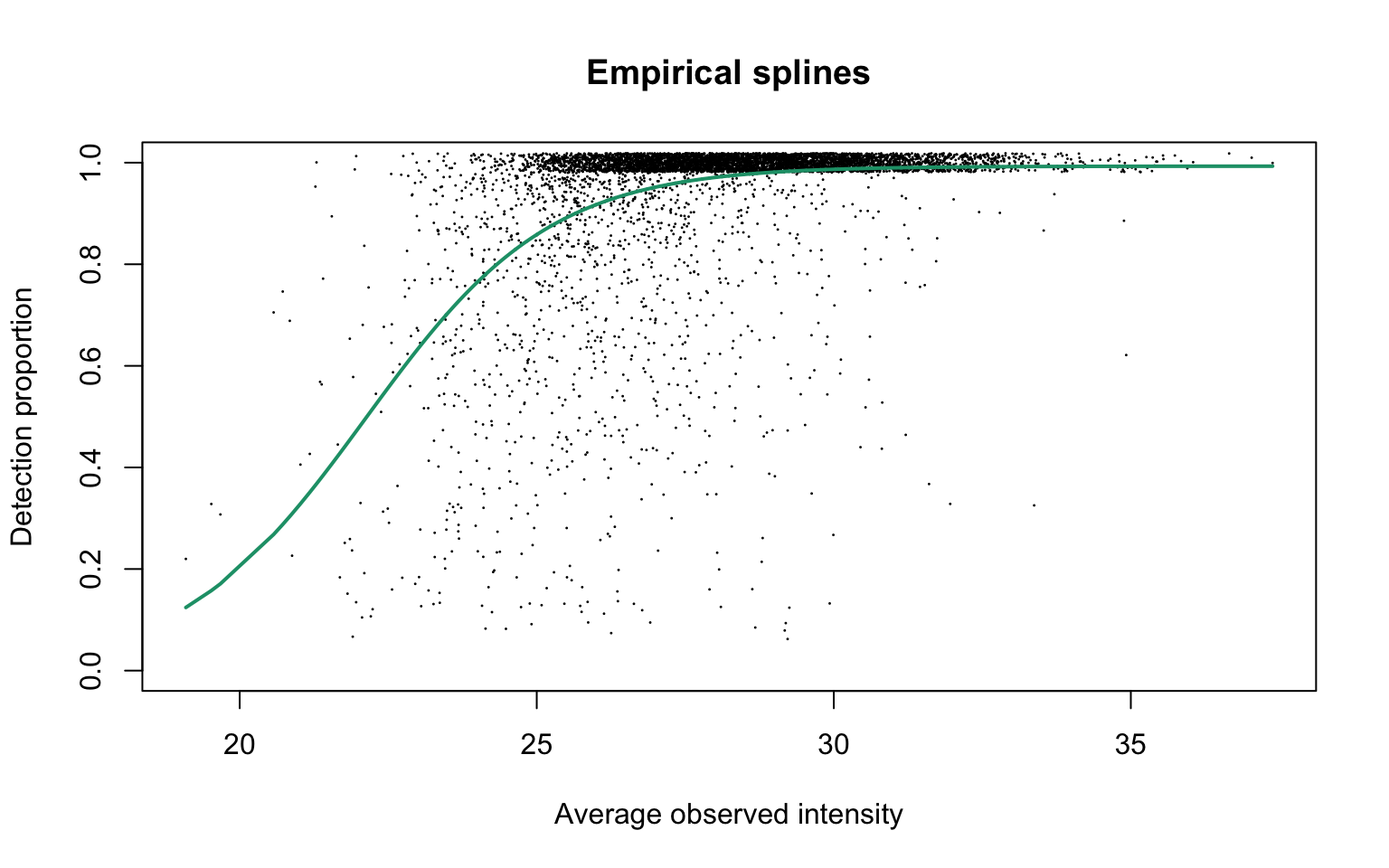
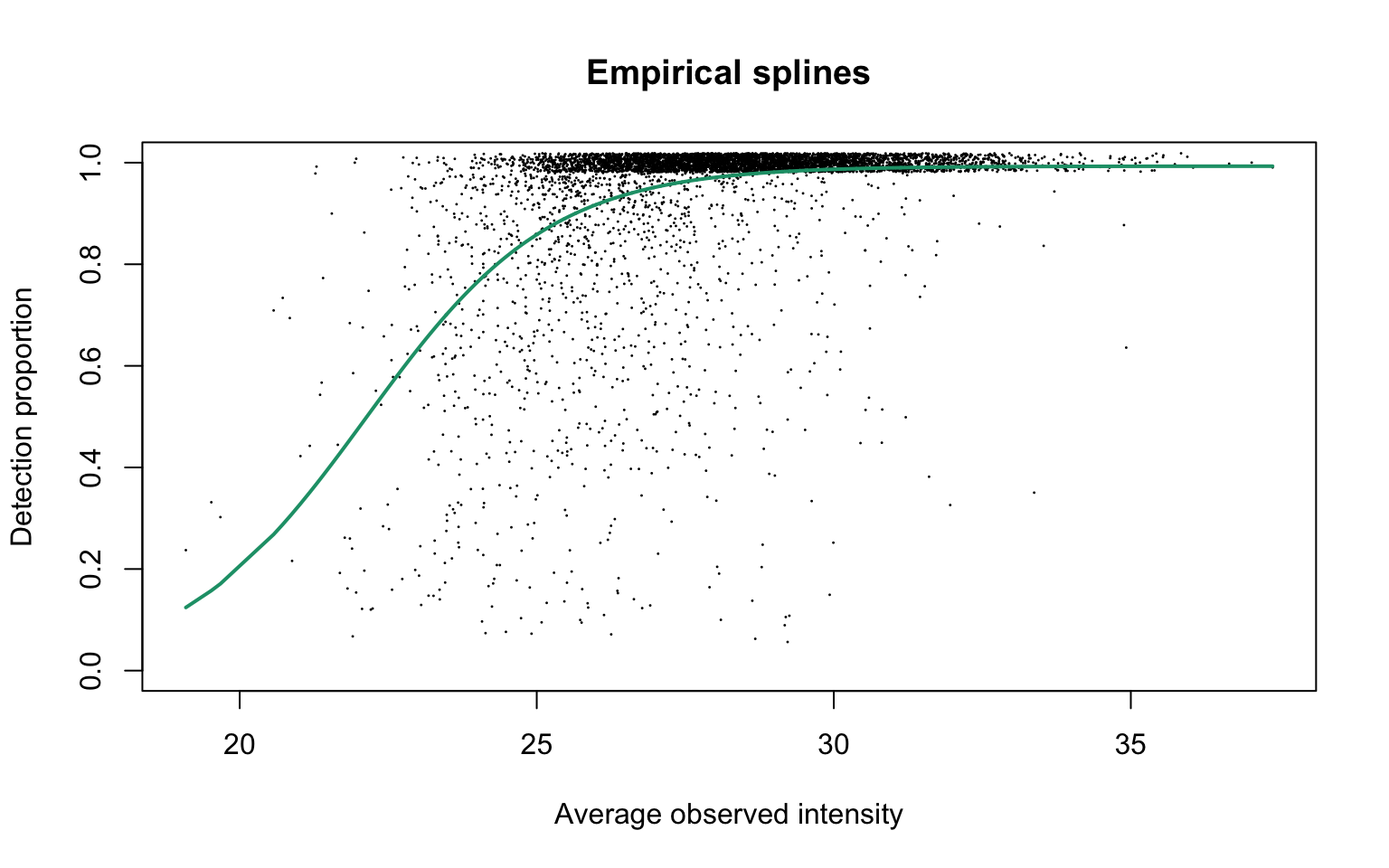
Update figure2

diff --git a/docs/articles/protDP.html b/docs/articles/protDP.html
@@ -130,10 +130,10 @@ values less than 1 were already filtered out.</p>
 <p>The dataset has a relatively small amount of missing values with an
 overall proportion of missing data of</p>
 <div class="sourceCode" id="cb3"><pre class="sourceCode r"><code class="sourceCode r"><span id="cb3-1"><a href="#cb3-1" aria-hidden="true" tabindex="-1"></a><span class="fu">sum</span>(<span class="fu">is.na</span>(dat))<span class="sc">/</span><span class="fu">length</span>(dat)</span>
-<span id="cb3-2"><a href="#cb3-2" aria-hidden="true" tabindex="-1"></a>[<span class="dv">1</span>] <span class="fl">0.0863</span></span></code></pre></div>
+<span id="cb3-2"><a href="#cb3-2" aria-hidden="true" tabindex="-1"></a>[<span class="dv">1</span>] <span class="fl">0.08632</span></span></code></pre></div>
 </div>
 <div class="section level3">
-<h3 id="emp-datasetA">Empirical logistic splines for detected proportions<a class="anchor" aria-label="anchor" href="#emp-datasetA"></a>
+<h3 id="empirical-logistic-splines-for-detected-proportions">Empirical logistic splines for detected proportions<a class="anchor" aria-label="anchor" href="#empirical-logistic-splines-for-detected-proportions"></a>
 </h3>
 <p>Natural cubic splines generated on average observed intensities are
 fitted on detection proportions with 1, 3 and 5 degrees of freedom:</p>
@@ -166,51 +166,58 @@ fitted on detection proportions with 1, 3 and 5 degrees of freedom:</p>
 <h3 id="empirical-logistic-splines-assuming-the-binomial-distribution">Empirical logistic splines assuming the binomial distribution<a class="anchor" aria-label="anchor" href="#empirical-logistic-splines-assuming-the-binomial-distribution"></a>
 </h3>
 <p>We have assumed the number of detected samples in each precursor to
-follow the zero-truncated binomial distribution in Section
-@ref(emp-datasetA). As a comparison, logistic regression splines are
-next fitted assuming the binomial distribution.</p>
+follow the zero-truncated binomial distribution in the previous section.
+As a comparison, logistic regression splines are next fitted assuming
+the binomial distribution.</p>
 <div class="sourceCode" id="cb6"><pre class="downlit sourceCode r">
-<code class="sourceCode R"><span class="fu"><a href="https://rdrr.io/r/graphics/par.html" class="external-link">par</a></span><span class="op">(</span>mfrow <span class="op">=</span> <span class="fu"><a href="https://rdrr.io/r/base/c.html" class="external-link">c</a></span><span class="op">(</span><span class="fl">2</span>, <span class="fl">1</span><span class="op">)</span><span class="op">)</span>
+<code class="sourceCode R"><span class="fu"><a href="https://rdrr.io/r/graphics/par.html" class="external-link">par</a></span><span class="op">(</span>mfrow <span class="op">=</span> <span class="fu"><a href="https://rdrr.io/r/base/c.html" class="external-link">c</a></span><span class="op">(</span><span class="fl">1</span>, <span class="fl">2</span><span class="op">)</span><span class="op">)</span>
+<span class="co"># Plot for precursors of low intensity</span>
+<span class="va">low</span> <span class="op">&lt;-</span> <span class="va">nuis</span><span class="op">$</span><span class="va">mu_obs</span> <span class="op">&lt;</span> <span class="fl">4</span>
+<span class="va">nuis_low</span> <span class="op">&lt;-</span> <span class="va">nuis</span>
+<span class="va">nuis_low</span><span class="op">$</span><span class="va">mu_obs</span> <span class="op">&lt;-</span> <span class="va">nuis_low</span><span class="op">$</span><span class="va">mu_obs</span><span class="op">[</span><span class="va">low</span><span class="op">]</span>
+<span class="va">nuis_low</span><span class="op">$</span><span class="va">dp</span> <span class="op">&lt;-</span> <span class="va">nuis_low</span><span class="op">$</span><span class="va">dp</span><span class="op">[</span><span class="va">low</span><span class="op">]</span>
 <span class="kw">for</span> <span class="op">(</span><span class="va">df</span> <span class="kw">in</span> <span class="va">dfList</span><span class="op">)</span> <span class="op">{</span>
     <span class="va">params0</span> <span class="op">&lt;-</span> <span class="va">allFits</span><span class="op">[[</span><span class="op">(</span><span class="va">df</span> <span class="op">+</span> <span class="fl">1</span><span class="op">)</span><span class="op">/</span><span class="fl">2</span><span class="op">]</span><span class="op">]</span><span class="op">$</span><span class="va">binomEstimate</span>
     <span class="va">fit</span> <span class="op">&lt;-</span> <span class="va">allFits</span><span class="op">[[</span><span class="op">(</span><span class="va">df</span> <span class="op">+</span> <span class="fl">1</span><span class="op">)</span><span class="op">/</span><span class="fl">2</span><span class="op">]</span><span class="op">]</span>
     <span class="kw">if</span> <span class="op">(</span><span class="va">df</span> <span class="op">==</span> <span class="fl">1</span><span class="op">)</span>
-        <span class="fu"><a href="../reference/plotEmpSplines.html">plotEmpSplines</a></span><span class="op">(</span><span class="va">nuis</span>, X <span class="op">=</span> <span class="va">params0</span><span class="op">$</span><span class="va">X</span>, <span class="va">params0</span><span class="op">$</span><span class="va">betas_start</span>,
-            ylim <span class="op">=</span> <span class="fu"><a href="https://rdrr.io/r/base/c.html" class="external-link">c</a></span><span class="op">(</span><span class="op">-</span><span class="fl">2</span>, <span class="fl">10</span><span class="op">)</span>, logit <span class="op">=</span> <span class="cn">TRUE</span>, lineCol <span class="op">=</span> <span class="va">lineColours</span><span class="op">[</span><span class="op">(</span><span class="va">df</span> <span class="op">+</span>
-                <span class="fl">1</span><span class="op">)</span><span class="op">/</span><span class="fl">2</span><span class="op">]</span>, lty <span class="op">=</span> <span class="st">"dotted"</span><span class="op">)</span>
-    <span class="fu"><a href="../reference/plotEmpSplines.html">plotEmpSplines</a></span><span class="op">(</span><span class="va">nuis</span>, X <span class="op">=</span> <span class="va">params0</span><span class="op">$</span><span class="va">X</span>, <span class="va">fit</span><span class="op">$</span><span class="va">params</span>, ylim <span class="op">=</span> <span class="fu"><a href="https://rdrr.io/r/base/c.html" class="external-link">c</a></span><span class="op">(</span><span class="op">-</span><span class="fl">2</span>,
-        <span class="fl">10</span><span class="op">)</span>, logit <span class="op">=</span> <span class="cn">TRUE</span>, lineCol <span class="op">=</span> <span class="va">lineColours</span><span class="op">[</span><span class="op">(</span><span class="va">df</span> <span class="op">+</span> <span class="fl">1</span><span class="op">)</span><span class="op">/</span><span class="fl">2</span><span class="op">]</span>,
-        newPlot <span class="op">=</span> <span class="cn">FALSE</span><span class="op">)</span>
+        <span class="fu"><a href="../reference/plotEmpSplines.html">plotEmpSplines</a></span><span class="op">(</span><span class="va">nuis_low</span>, X <span class="op">=</span> <span class="va">params0</span><span class="op">$</span><span class="va">X</span><span class="op">[</span><span class="va">low</span>, <span class="op">]</span>, <span class="va">params0</span><span class="op">$</span><span class="va">betas_start</span>,
+            xlim <span class="op">=</span> <span class="fu"><a href="https://rdrr.io/r/base/c.html" class="external-link">c</a></span><span class="op">(</span><span class="fl">0</span>, <span class="fl">4</span><span class="op">)</span>, ylim <span class="op">=</span> <span class="fu"><a href="https://rdrr.io/r/base/c.html" class="external-link">c</a></span><span class="op">(</span><span class="op">-</span><span class="fl">2</span>, <span class="fl">2</span><span class="op">)</span>, logit <span class="op">=</span> <span class="cn">TRUE</span>, lineCol <span class="op">=</span> <span class="va">lineColours</span><span class="op">[</span><span class="op">(</span><span class="va">df</span> <span class="op">+</span>
+                <span class="fl">1</span><span class="op">)</span><span class="op">/</span><span class="fl">2</span><span class="op">]</span>, lty <span class="op">=</span> <span class="st">"dashed"</span><span class="op">)</span>
+    <span class="fu"><a href="../reference/plotEmpSplines.html">plotEmpSplines</a></span><span class="op">(</span><span class="va">nuis_low</span>, X <span class="op">=</span> <span class="va">params0</span><span class="op">$</span><span class="va">X</span><span class="op">[</span><span class="va">low</span>, <span class="op">]</span>, <span class="va">fit</span><span class="op">$</span><span class="va">params</span>,
+        ylim <span class="op">=</span> <span class="fu"><a href="https://rdrr.io/r/base/c.html" class="external-link">c</a></span><span class="op">(</span><span class="op">-</span><span class="fl">2</span>, <span class="fl">2</span><span class="op">)</span>, logit <span class="op">=</span> <span class="cn">TRUE</span>, lineCol <span class="op">=</span> <span class="va">lineColours</span><span class="op">[</span><span class="op">(</span><span class="va">df</span> <span class="op">+</span>
+            <span class="fl">1</span><span class="op">)</span><span class="op">/</span><span class="fl">2</span><span class="op">]</span>, newPlot <span class="op">=</span> <span class="cn">FALSE</span><span class="op">)</span>
     <span class="kw">if</span> <span class="op">(</span><span class="va">df</span> <span class="op">&gt;</span> <span class="fl">1</span><span class="op">)</span>
-        <span class="fu"><a href="../reference/plotEmpSplines.html">plotEmpSplines</a></span><span class="op">(</span><span class="va">nuis</span>, X <span class="op">=</span> <span class="va">params0</span><span class="op">$</span><span class="va">X</span>, <span class="va">params0</span><span class="op">$</span><span class="va">betas_start</span>,
-            ylim <span class="op">=</span> <span class="fu"><a href="https://rdrr.io/r/base/c.html" class="external-link">c</a></span><span class="op">(</span><span class="op">-</span><span class="fl">2</span>, <span class="fl">10</span><span class="op">)</span>, logit <span class="op">=</span> <span class="cn">TRUE</span>, lineCol <span class="op">=</span> <span class="va">lineColours</span><span class="op">[</span><span class="op">(</span><span class="va">df</span> <span class="op">+</span>
-                <span class="fl">1</span><span class="op">)</span><span class="op">/</span><span class="fl">2</span><span class="op">]</span>, lty <span class="op">=</span> <span class="st">"dotted"</span>, newPlot <span class="op">=</span> <span class="cn">FALSE</span><span class="op">)</span>
-    <span class="fu"><a href="../reference/plotEmpSplines.html">plotEmpSplines</a></span><span class="op">(</span><span class="va">nuis</span>, X <span class="op">=</span> <span class="va">params0</span><span class="op">$</span><span class="va">X</span>, <span class="va">fit</span><span class="op">$</span><span class="va">params</span>, logit <span class="op">=</span> <span class="cn">TRUE</span>,
-        lineCol <span class="op">=</span> <span class="va">lineColours</span><span class="op">[</span><span class="op">(</span><span class="va">df</span> <span class="op">+</span> <span class="fl">1</span><span class="op">)</span><span class="op">/</span><span class="fl">2</span><span class="op">]</span>, ylim <span class="op">=</span> <span class="fu"><a href="https://rdrr.io/r/base/c.html" class="external-link">c</a></span><span class="op">(</span><span class="op">-</span><span class="fl">2</span>, <span class="fl">10</span><span class="op">)</span>,
-        newPlot <span class="op">=</span> <span class="cn">FALSE</span><span class="op">)</span>
+        <span class="fu"><a href="../reference/plotEmpSplines.html">plotEmpSplines</a></span><span class="op">(</span><span class="va">nuis_low</span>, X <span class="op">=</span> <span class="va">params0</span><span class="op">$</span><span class="va">X</span><span class="op">[</span><span class="va">low</span>, <span class="op">]</span>, <span class="va">params0</span><span class="op">$</span><span class="va">betas_start</span>,
+            ylim <span class="op">=</span> <span class="fu"><a href="https://rdrr.io/r/base/c.html" class="external-link">c</a></span><span class="op">(</span><span class="op">-</span><span class="fl">2</span>, <span class="fl">2</span><span class="op">)</span>, logit <span class="op">=</span> <span class="cn">TRUE</span>, lineCol <span class="op">=</span> <span class="va">lineColours</span><span class="op">[</span><span class="op">(</span><span class="va">df</span> <span class="op">+</span>
+                <span class="fl">1</span><span class="op">)</span><span class="op">/</span><span class="fl">2</span><span class="op">]</span>, lty <span class="op">=</span> <span class="st">"dashed"</span>, newPlot <span class="op">=</span> <span class="cn">FALSE</span><span class="op">)</span>
+    <span class="fu"><a href="../reference/plotEmpSplines.html">plotEmpSplines</a></span><span class="op">(</span><span class="va">nuis_low</span>, X <span class="op">=</span> <span class="va">params0</span><span class="op">$</span><span class="va">X</span><span class="op">[</span><span class="va">low</span>, <span class="op">]</span>, <span class="va">fit</span><span class="op">$</span><span class="va">params</span>,
+        logit <span class="op">=</span> <span class="cn">TRUE</span>, lineCol <span class="op">=</span> <span class="va">lineColours</span><span class="op">[</span><span class="op">(</span><span class="va">df</span> <span class="op">+</span> <span class="fl">1</span><span class="op">)</span><span class="op">/</span><span class="fl">2</span><span class="op">]</span>, ylim <span class="op">=</span> <span class="fu"><a href="https://rdrr.io/r/base/c.html" class="external-link">c</a></span><span class="op">(</span><span class="op">-</span><span class="fl">2</span>,
+            <span class="fl">2</span><span class="op">)</span>, newPlot <span class="op">=</span> <span class="cn">FALSE</span><span class="op">)</span>
 <span class="op">}</span>
 <span class="fu"><a href="https://rdrr.io/r/graphics/legend.html" class="external-link">legend</a></span><span class="op">(</span><span class="st">"topleft"</span>, legend <span class="op">=</span> <span class="fu"><a href="https://rdrr.io/r/base/c.html" class="external-link">c</a></span><span class="op">(</span><span class="fu"><a href="https://rdrr.io/r/base/paste.html" class="external-link">paste</a></span><span class="op">(</span><span class="st">"df = "</span>, <span class="va">dfList</span><span class="op">)</span>, <span class="st">"Binom"</span>,
     <span class="st">"ZB"</span><span class="op">)</span>, col <span class="op">=</span> <span class="fu"><a href="https://rdrr.io/r/base/c.html" class="external-link">c</a></span><span class="op">(</span><span class="va">lineColours</span>, <span class="st">"black"</span>, <span class="st">"black"</span><span class="op">)</span>, lwd <span class="op">=</span> <span class="fl">2</span>, lty <span class="op">=</span> <span class="fu"><a href="https://rdrr.io/r/base/c.html" class="external-link">c</a></span><span class="op">(</span><span class="fl">1</span>,
-    <span class="fl">1</span>, <span class="fl">1</span>, <span class="fl">2</span>, <span class="fl">1</span><span class="op">)</span>, cex <span class="op">=</span> <span class="fl">0.8</span><span class="op">)</span>
+    <span class="fl">1</span>, <span class="fl">1</span>, <span class="fl">2</span>, <span class="fl">1</span><span class="op">)</span>, cex <span class="op">=</span> <span class="fl">0.4</span><span class="op">)</span>
 <span class="kw">for</span> <span class="op">(</span><span class="va">df</span> <span class="kw">in</span> <span class="va">dfList</span><span class="op">)</span> <span class="op">{</span>
     <span class="va">params0</span> <span class="op">&lt;-</span> <span class="va">allFits</span><span class="op">[[</span><span class="op">(</span><span class="va">df</span> <span class="op">+</span> <span class="fl">1</span><span class="op">)</span><span class="op">/</span><span class="fl">2</span><span class="op">]</span><span class="op">]</span><span class="op">$</span><span class="va">binomEstimate</span>
     <span class="va">fit</span> <span class="op">&lt;-</span> <span class="va">allFits</span><span class="op">[[</span><span class="op">(</span><span class="va">df</span> <span class="op">+</span> <span class="fl">1</span><span class="op">)</span><span class="op">/</span><span class="fl">2</span><span class="op">]</span><span class="op">]</span>
     <span class="kw">if</span> <span class="op">(</span><span class="va">df</span> <span class="op">==</span> <span class="fl">1</span><span class="op">)</span>
-        <span class="fu"><a href="../reference/plotEmpSplines.html">plotEmpSplines</a></span><span class="op">(</span><span class="va">nuis</span>, X <span class="op">=</span> <span class="va">params0</span><span class="op">$</span><span class="va">X</span>, <span class="va">params0</span><span class="op">$</span><span class="va">betas_start</span>,
-            ylim <span class="op">=</span> <span class="fu"><a href="https://rdrr.io/r/base/c.html" class="external-link">c</a></span><span class="op">(</span><span class="fl">0</span>, <span class="fl">1.04</span><span class="op">)</span>, lineCol <span class="op">=</span> <span class="va">lineColours</span><span class="op">[</span><span class="op">(</span><span class="va">df</span> <span class="op">+</span> <span class="fl">1</span><span class="op">)</span><span class="op">/</span><span class="fl">2</span><span class="op">]</span>,
-            lty <span class="op">=</span> <span class="st">"dashed"</span><span class="op">)</span>
-    <span class="fu"><a href="../reference/plotEmpSplines.html">plotEmpSplines</a></span><span class="op">(</span><span class="va">nuis</span>, X <span class="op">=</span> <span class="va">params0</span><span class="op">$</span><span class="va">X</span>, <span class="va">fit</span><span class="op">$</span><span class="va">params</span>, ylim <span class="op">=</span> <span class="fu"><a href="https://rdrr.io/r/base/c.html" class="external-link">c</a></span><span class="op">(</span><span class="fl">0</span>,
-        <span class="fl">1.04</span><span class="op">)</span>, lineCol <span class="op">=</span> <span class="va">lineColours</span><span class="op">[</span><span class="op">(</span><span class="va">df</span> <span class="op">+</span> <span class="fl">1</span><span class="op">)</span><span class="op">/</span><span class="fl">2</span><span class="op">]</span>, newPlot <span class="op">=</span> <span class="cn">FALSE</span><span class="op">)</span>
+        <span class="fu"><a href="../reference/plotEmpSplines.html">plotEmpSplines</a></span><span class="op">(</span><span class="va">nuis_low</span>, X <span class="op">=</span> <span class="va">params0</span><span class="op">$</span><span class="va">X</span><span class="op">[</span><span class="va">low</span>, <span class="op">]</span>, <span class="va">params0</span><span class="op">$</span><span class="va">betas_start</span>,
+            xlim <span class="op">=</span> <span class="fu"><a href="https://rdrr.io/r/base/c.html" class="external-link">c</a></span><span class="op">(</span><span class="fl">0</span>, <span class="fl">4</span><span class="op">)</span>, ylim <span class="op">=</span> <span class="fu"><a href="https://rdrr.io/r/base/c.html" class="external-link">c</a></span><span class="op">(</span><span class="fl">0</span>, <span class="fl">1.04</span><span class="op">)</span>, lineCol <span class="op">=</span> <span class="va">lineColours</span><span class="op">[</span><span class="op">(</span><span class="va">df</span> <span class="op">+</span>
+                <span class="fl">1</span><span class="op">)</span><span class="op">/</span><span class="fl">2</span><span class="op">]</span>, lty <span class="op">=</span> <span class="st">"dashed"</span><span class="op">)</span>
+    <span class="fu"><a href="../reference/plotEmpSplines.html">plotEmpSplines</a></span><span class="op">(</span><span class="va">nuis_low</span>, X <span class="op">=</span> <span class="va">params0</span><span class="op">$</span><span class="va">X</span><span class="op">[</span><span class="va">low</span>, <span class="op">]</span>, <span class="va">fit</span><span class="op">$</span><span class="va">params</span>,
+        ylim <span class="op">=</span> <span class="fu"><a href="https://rdrr.io/r/base/c.html" class="external-link">c</a></span><span class="op">(</span><span class="fl">0</span>, <span class="fl">1.04</span><span class="op">)</span>, lineCol <span class="op">=</span> <span class="va">lineColours</span><span class="op">[</span><span class="op">(</span><span class="va">df</span> <span class="op">+</span> <span class="fl">1</span><span class="op">)</span><span class="op">/</span><span class="fl">2</span><span class="op">]</span>,
+        newPlot <span class="op">=</span> <span class="cn">FALSE</span><span class="op">)</span>
     <span class="kw">if</span> <span class="op">(</span><span class="va">df</span> <span class="op">&gt;</span> <span class="fl">1</span><span class="op">)</span>
-        <span class="fu"><a href="../reference/plotEmpSplines.html">plotEmpSplines</a></span><span class="op">(</span><span class="va">nuis</span>, X <span class="op">=</span> <span class="va">params0</span><span class="op">$</span><span class="va">X</span>, <span class="va">params0</span><span class="op">$</span><span class="va">betas_start</span>,
+        <span class="fu"><a href="../reference/plotEmpSplines.html">plotEmpSplines</a></span><span class="op">(</span><span class="va">nuis_low</span>, X <span class="op">=</span> <span class="va">params0</span><span class="op">$</span><span class="va">X</span><span class="op">[</span><span class="va">low</span>, <span class="op">]</span>, <span class="va">params0</span><span class="op">$</span><span class="va">betas_start</span>,
             ylim <span class="op">=</span> <span class="fu"><a href="https://rdrr.io/r/base/c.html" class="external-link">c</a></span><span class="op">(</span><span class="fl">0</span>, <span class="fl">1.04</span><span class="op">)</span>, lineCol <span class="op">=</span> <span class="va">lineColours</span><span class="op">[</span><span class="op">(</span><span class="va">df</span> <span class="op">+</span> <span class="fl">1</span><span class="op">)</span><span class="op">/</span><span class="fl">2</span><span class="op">]</span>,
             lty <span class="op">=</span> <span class="st">"dashed"</span>, newPlot <span class="op">=</span> <span class="cn">FALSE</span><span class="op">)</span>
-    <span class="fu"><a href="../reference/plotEmpSplines.html">plotEmpSplines</a></span><span class="op">(</span><span class="va">nuis</span>, X <span class="op">=</span> <span class="va">params0</span><span class="op">$</span><span class="va">X</span>, <span class="va">fit</span><span class="op">$</span><span class="va">params</span>, ylim <span class="op">=</span> <span class="fu"><a href="https://rdrr.io/r/base/c.html" class="external-link">c</a></span><span class="op">(</span><span class="fl">0</span>,
-        <span class="fl">1.04</span><span class="op">)</span>, lineCol <span class="op">=</span> <span class="va">lineColours</span><span class="op">[</span><span class="op">(</span><span class="va">df</span> <span class="op">+</span> <span class="fl">1</span><span class="op">)</span><span class="op">/</span><span class="fl">2</span><span class="op">]</span>, newPlot <span class="op">=</span> <span class="cn">FALSE</span><span class="op">)</span>
+    <span class="fu"><a href="../reference/plotEmpSplines.html">plotEmpSplines</a></span><span class="op">(</span><span class="va">nuis_low</span>, X <span class="op">=</span> <span class="va">params0</span><span class="op">$</span><span class="va">X</span><span class="op">[</span><span class="va">low</span>, <span class="op">]</span>, <span class="va">fit</span><span class="op">$</span><span class="va">params</span>,
+        ylim <span class="op">=</span> <span class="fu"><a href="https://rdrr.io/r/base/c.html" class="external-link">c</a></span><span class="op">(</span><span class="fl">0</span>, <span class="fl">1.04</span><span class="op">)</span>, lineCol <span class="op">=</span> <span class="va">lineColours</span><span class="op">[</span><span class="op">(</span><span class="va">df</span> <span class="op">+</span> <span class="fl">1</span><span class="op">)</span><span class="op">/</span><span class="fl">2</span><span class="op">]</span>,
+        newPlot <span class="op">=</span> <span class="cn">FALSE</span><span class="op">)</span>
 <span class="op">}</span>
 <span class="fu"><a href="https://rdrr.io/r/graphics/legend.html" class="external-link">legend</a></span><span class="op">(</span><span class="st">"bottomright"</span>, legend <span class="op">=</span> <span class="fu"><a href="https://rdrr.io/r/base/c.html" class="external-link">c</a></span><span class="op">(</span><span class="fu"><a href="https://rdrr.io/r/base/paste.html" class="external-link">paste</a></span><span class="op">(</span><span class="st">"df = "</span>, <span class="va">dfList</span><span class="op">)</span>, <span class="st">"Binom"</span>,
     <span class="st">"ZB"</span><span class="op">)</span>, col <span class="op">=</span> <span class="fu"><a href="https://rdrr.io/r/base/c.html" class="external-link">c</a></span><span class="op">(</span><span class="va">lineColours</span>, <span class="st">"black"</span>, <span class="st">"black"</span><span class="op">)</span>, lwd <span class="op">=</span> <span class="fl">2</span>, lty <span class="op">=</span> <span class="fu"><a href="https://rdrr.io/r/base/c.html" class="external-link">c</a></span><span class="op">(</span><span class="fl">1</span>,
-    <span class="fl">1</span>, <span class="fl">1</span>, <span class="fl">2</span>, <span class="fl">1</span><span class="op">)</span>, cex <span class="op">=</span> <span class="fl">0.8</span><span class="op">)</span></code></pre></div>
+    <span class="fl">1</span>, <span class="fl">1</span>, <span class="fl">2</span>, <span class="fl">1</span><span class="op">)</span>, cex <span class="op">=</span> <span class="fl">0.4</span><span class="op">)</span></code></pre></div>
 <p><img src="protDP_files/figure-html/unnamed-chunk-6-1.png" width="768"></p>
 <p>The above plots correspond to Figure 2 of the manuscript.</p>
 </div>
@@ -298,7 +305,7 @@ intensities:</p>
 <span id="cb11-4"><a href="#cb11-4" aria-hidden="true" tabindex="-1"></a>[<span class="dv">1</span>] <span class="dv">10754</span>   <span class="dv">231</span></span></code></pre></div>
 <p>The overall proportion of missing data is</p>
 <div class="sourceCode" id="cb12"><pre class="sourceCode r"><code class="sourceCode r"><span id="cb12-1"><a href="#cb12-1" aria-hidden="true" tabindex="-1"></a><span class="fu">sum</span>(<span class="fu">is.na</span>(dat))<span class="sc">/</span><span class="fu">length</span>(dat)</span>
-<span id="cb12-2"><a href="#cb12-2" aria-hidden="true" tabindex="-1"></a>[<span class="dv">1</span>] <span class="fl">0.604</span></span></code></pre></div>
+<span id="cb12-2"><a href="#cb12-2" aria-hidden="true" tabindex="-1"></a>[<span class="dv">1</span>] <span class="fl">0.6039</span></span></code></pre></div>
 <p>The same analyses as those of Dataset A are also performed on Dataset
 B on the precursor level. For simplicity, we created a wrapper function
 to collect all results for a log2-transformed dataset:</p>
@@ -306,7 +313,7 @@ to collect all results for a log2-transformed dataset:</p>
 <code class="sourceCode R"><span class="va">diapasefRes</span> <span class="op">&lt;-</span> <span class="fu"><a href="../reference/gatherResults.html">gatherResults</a></span><span class="op">(</span><span class="va">dat</span><span class="op">)</span></code></pre></div>
 </div>
 <div class="section level3">
-<h3 id="empirical-logistic-splines-for-detected-proportions">Empirical logistic splines for detected proportions<a class="anchor" aria-label="anchor" href="#empirical-logistic-splines-for-detected-proportions"></a>
+<h3 id="empirical-logistic-splines-for-detected-proportions-1">Empirical logistic splines for detected proportions<a class="anchor" aria-label="anchor" href="#empirical-logistic-splines-for-detected-proportions-1"></a>
 </h3>
 <div class="sourceCode" id="cb14"><pre class="downlit sourceCode r">
 <code class="sourceCode R"><span class="kw">for</span> <span class="op">(</span><span class="va">i</span> <span class="kw">in</span> <span class="fl">1</span><span class="op">:</span><span class="fu"><a href="https://rdrr.io/r/base/length.html" class="external-link">length</a></span><span class="op">(</span><span class="va">dfList</span><span class="op">)</span><span class="op">)</span> <span class="op">{</span>
@@ -386,10 +393,10 @@ precursor-level intensities.</p>
 <span id="cb20-4"><a href="#cb20-4" aria-hidden="true" tabindex="-1"></a>[<span class="dv">1</span>] <span class="dv">62515</span>    <span class="dv">27</span></span></code></pre></div>
 <p>The overall proportion of missing data is equal to</p>
 <div class="sourceCode" id="cb21"><pre class="sourceCode r"><code class="sourceCode r"><span id="cb21-1"><a href="#cb21-1" aria-hidden="true" tabindex="-1"></a><span class="fu">sum</span>(<span class="fu">is.na</span>(dat))<span class="sc">/</span><span class="fu">length</span>(dat)</span>
-<span id="cb21-2"><a href="#cb21-2" aria-hidden="true" tabindex="-1"></a>[<span class="dv">1</span>] <span class="fl">0.328</span></span></code></pre></div>
+<span id="cb21-2"><a href="#cb21-2" aria-hidden="true" tabindex="-1"></a>[<span class="dv">1</span>] <span class="fl">0.3284</span></span></code></pre></div>
 </div>
 <div class="section level3">
-<h3 id="empirical-logistic-splines-for-detected-proportions-1">Empirical logistic splines for detected proportions<a class="anchor" aria-label="anchor" href="#empirical-logistic-splines-for-detected-proportions-1"></a>
+<h3 id="empirical-logistic-splines-for-detected-proportions-2">Empirical logistic splines for detected proportions<a class="anchor" aria-label="anchor" href="#empirical-logistic-splines-for-detected-proportions-2"></a>
 </h3>
 <div class="sourceCode" id="cb22"><pre class="downlit sourceCode r">
 <code class="sourceCode R"><span class="va">maxdiaRes</span> <span class="op">&lt;-</span> <span class="fu"><a href="../reference/gatherResults.html">gatherResults</a></span><span class="op">(</span><span class="va">dat</span><span class="op">)</span>
@@ -468,10 +475,10 @@ repository with the dataset identifier PXD014777.</p>
 <span id="cb28-4"><a href="#cb28-4" aria-hidden="true" tabindex="-1"></a>[<span class="dv">1</span>] <span class="dv">2384</span>  <span class="dv">212</span></span></code></pre></div>
 <p>The overall proportion of missing data is equal to</p>
 <div class="sourceCode" id="cb29"><pre class="sourceCode r"><code class="sourceCode r"><span id="cb29-1"><a href="#cb29-1" aria-hidden="true" tabindex="-1"></a><span class="fu">sum</span>(<span class="fu">is.na</span>(dat))<span class="sc">/</span><span class="fu">length</span>(dat)</span>
-<span id="cb29-2"><a href="#cb29-2" aria-hidden="true" tabindex="-1"></a>[<span class="dv">1</span>] <span class="fl">0.569</span></span></code></pre></div>
+<span id="cb29-2"><a href="#cb29-2" aria-hidden="true" tabindex="-1"></a>[<span class="dv">1</span>] <span class="fl">0.5687</span></span></code></pre></div>
 </div>
 <div class="section level3">
-<h3 id="empirical-logistic-splines-for-detected-proportions-2">Empirical logistic splines for detected proportions<a class="anchor" aria-label="anchor" href="#empirical-logistic-splines-for-detected-proportions-2"></a>
+<h3 id="empirical-logistic-splines-for-detected-proportions-3">Empirical logistic splines for detected proportions<a class="anchor" aria-label="anchor" href="#empirical-logistic-splines-for-detected-proportions-3"></a>
 </h3>
 <div class="sourceCode" id="cb30"><pre class="downlit sourceCode r">
 <code class="sourceCode R"><span class="va">ddaPlasmaRes</span> <span class="op">&lt;-</span> <span class="fu"><a href="../reference/gatherResults.html">gatherResults</a></span><span class="op">(</span><span class="va">dat</span><span class="op">)</span>

diff --git a/docs/articles/supp.html b/docs/articles/supp.html
@@ -187,7 +187,7 @@ groups. The log2-transformation is first applied to LFQ intensities.</p>
 <span id="cb10-4"><a href="#cb10-4" aria-hidden="true" tabindex="-1"></a>[<span class="dv">1</span>] <span class="dv">2661</span>  <span class="dv">231</span></span></code></pre></div>
 <p>The overall proportion of missing data on the protein-level is</p>
 <div class="sourceCode" id="cb11"><pre class="sourceCode r"><code class="sourceCode r"><span id="cb11-1"><a href="#cb11-1" aria-hidden="true" tabindex="-1"></a><span class="fu">sum</span>(<span class="fu">is.na</span>(dat))<span class="sc">/</span><span class="fu">length</span>(dat)</span>
-<span id="cb11-2"><a href="#cb11-2" aria-hidden="true" tabindex="-1"></a>[<span class="dv">1</span>] <span class="fl">0.474</span></span></code></pre></div>
+<span id="cb11-2"><a href="#cb11-2" aria-hidden="true" tabindex="-1"></a>[<span class="dv">1</span>] <span class="fl">0.4737</span></span></code></pre></div>
 </div>
 <div class="section level3">
 <h3 id="empirical-logistic-splines-for-detected-proportions-1">Empirical logistic splines for detected proportions<a class="anchor" aria-label="anchor" href="#empirical-logistic-splines-for-detected-proportions-1"></a>
@@ -241,7 +241,7 @@ intensities<a class="anchor" aria-label="anchor" href="#detection-probability-cu
 <p><img src="supp_files/figure-html/unnamed-chunk-16-1.png" width="768"></p>
 <p>Parameters of the detection probability curve are as follows:</p>
 <div class="sourceCode" id="cb17"><pre class="sourceCode r"><code class="sourceCode r"><span id="cb17-1"><a href="#cb17-1" aria-hidden="true" tabindex="-1"></a><span class="fu">round</span>(scProt<span class="sc">$</span>dpcFit<span class="sc">$</span>beta, <span class="dv">2</span>)</span>
-<span id="cb17-2"><a href="#cb17-2" aria-hidden="true" tabindex="-1"></a>[<span class="dv">1</span>] <span class="sc">-</span><span class="fl">12.9</span>   <span class="fl">1.2</span></span></code></pre></div>
+<span id="cb17-2"><a href="#cb17-2" aria-hidden="true" tabindex="-1"></a>[<span class="dv">1</span>] <span class="sc">-</span><span class="fl">12.95</span>   <span class="fl">1.20</span></span></code></pre></div>
 <p><br><br><br><br></p>
 </div>
 </div>
@@ -261,7 +261,7 @@ intensities are first log2-transformed.</p>
 <p>The overall proportion of missingness in protein group level data
 is</p>
 <div class="sourceCode" id="cb19"><pre class="sourceCode r"><code class="sourceCode r"><span id="cb19-1"><a href="#cb19-1" aria-hidden="true" tabindex="-1"></a><span class="fu">sum</span>(<span class="fu">is.na</span>(dat))<span class="sc">/</span><span class="fu">length</span>(dat)</span>
-<span id="cb19-2"><a href="#cb19-2" aria-hidden="true" tabindex="-1"></a>[<span class="dv">1</span>] <span class="fl">0.0553</span></span></code></pre></div>
+<span id="cb19-2"><a href="#cb19-2" aria-hidden="true" tabindex="-1"></a>[<span class="dv">1</span>] <span class="fl">0.05533</span></span></code></pre></div>
 </div>
 <div class="section level3">
 <h3 id="empirical-logistic-splines-for-detected-proportions-2">Empirical logistic splines for detected proportions<a class="anchor" aria-label="anchor" href="#empirical-logistic-splines-for-detected-proportions-2"></a>
@@ -336,7 +336,7 @@ with the dataset identifier PXD014777.</p>
 <p>The overall proportion of missing data in the protein group level
 data is</p>
 <div class="sourceCode" id="cb27"><pre class="sourceCode r"><code class="sourceCode r"><span id="cb27-1"><a href="#cb27-1" aria-hidden="true" tabindex="-1"></a><span class="fu">sum</span>(<span class="fu">is.na</span>(dat))<span class="sc">/</span><span class="fu">length</span>(dat)</span>
-<span id="cb27-2"><a href="#cb27-2" aria-hidden="true" tabindex="-1"></a>[<span class="dv">1</span>] <span class="fl">0.412</span></span></code></pre></div>
+<span id="cb27-2"><a href="#cb27-2" aria-hidden="true" tabindex="-1"></a>[<span class="dv">1</span>] <span class="fl">0.4123</span></span></code></pre></div>
 </div>
 <div class="section level3">
 <h3 id="empirical-logistic-splines-for-detected-proportions-3">Empirical logistic splines for detected proportions<a class="anchor" aria-label="anchor" href="#empirical-logistic-splines-for-detected-proportions-3"></a>
@@ -417,11 +417,11 @@ log2-transformed before analysis.</p>
 <span id="cb34-7"><a href="#cb34-7" aria-hidden="true" tabindex="-1"></a>[<span class="dv">1</span>] <span class="dv">3208</span>   <span class="dv">24</span></span></code></pre></div>
 <p>The overall proportion of missing data on the precursor-level is</p>
 <div class="sourceCode" id="cb35"><pre class="sourceCode r"><code class="sourceCode r"><span id="cb35-1"><a href="#cb35-1" aria-hidden="true" tabindex="-1"></a><span class="fu">sum</span>(<span class="fu">is.na</span>(shbheart_prec))<span class="sc">/</span><span class="fu">length</span>(shbheart_prec)</span>
-<span id="cb35-2"><a href="#cb35-2" aria-hidden="true" tabindex="-1"></a>[<span class="dv">1</span>] <span class="fl">0.334</span></span></code></pre></div>
+<span id="cb35-2"><a href="#cb35-2" aria-hidden="true" tabindex="-1"></a>[<span class="dv">1</span>] <span class="fl">0.3337</span></span></code></pre></div>
 <p>While the overall proportion of missingness on the protein
 group-level is</p>
 <div class="sourceCode" id="cb36"><pre class="sourceCode r"><code class="sourceCode r"><span id="cb36-1"><a href="#cb36-1" aria-hidden="true" tabindex="-1"></a><span class="fu">sum</span>(<span class="fu">is.na</span>(shbheart_prot))<span class="sc">/</span><span class="fu">length</span>(shbheart_prot)</span>
-<span id="cb36-2"><a href="#cb36-2" aria-hidden="true" tabindex="-1"></a>[<span class="dv">1</span>] <span class="fl">0.12</span></span></code></pre></div>
+<span id="cb36-2"><a href="#cb36-2" aria-hidden="true" tabindex="-1"></a>[<span class="dv">1</span>] <span class="fl">0.1203</span></span></code></pre></div>
 </div>
 <div class="section level3">
 <h3 id="empirical-logistic-splines-for-detected-proportions-4">Empirical logistic splines for detected proportions<a class="anchor" aria-label="anchor" href="#empirical-logistic-splines-for-detected-proportions-4"></a>
@@ -487,7 +487,7 @@ dataset on both precursor- and protein group-level data:</p>
 <p>and estimated parameters on protein-level data being:</p>
 <div class="sourceCode" id="cb42"><pre class="sourceCode r"><code class="sourceCode r"><span id="cb42-1"><a href="#cb42-1" aria-hidden="true" tabindex="-1"></a><span class="fu">round</span>(res[[<span class="st">"prot"</span>]]<span class="sc">$</span>cappedLinearFit<span class="sc">$</span>params, <span class="dv">2</span>)</span>
 <span id="cb42-2"><a href="#cb42-2" aria-hidden="true" tabindex="-1"></a>alpha    b0    b1 </span>
-<span id="cb42-3"><a href="#cb42-3" aria-hidden="true" tabindex="-1"></a>  <span class="fl">1.0</span>  <span class="sc">-</span><span class="fl">1.5</span>  <span class="fl">13.6</span> </span></code></pre></div>
+<span id="cb42-3"><a href="#cb42-3" aria-hidden="true" tabindex="-1"></a> <span class="fl">1.00</span> <span class="sc">-</span><span class="fl">1.50</span> <span class="fl">13.55</span> </span></code></pre></div>
 <p>Estimated <span class="math inline">\(\alpha\)</span> values are
 equal to 1 on both precursor- and protein group-level data.</p>
 </div>
@@ -543,7 +543,7 @@ is</p>
 <p>The overall proportion of missing data for the protein-level data
 is</p>
 <div class="sourceCode" id="cb48"><pre class="sourceCode r"><code class="sourceCode r"><span id="cb48-1"><a href="#cb48-1" aria-hidden="true" tabindex="-1"></a><span class="fu">sum</span>(<span class="fu">is.na</span>(usp1_prot))<span class="sc">/</span><span class="fu">length</span>(usp1_prot)</span>
-<span id="cb48-2"><a href="#cb48-2" aria-hidden="true" tabindex="-1"></a>[<span class="dv">1</span>] <span class="fl">0.0677</span></span></code></pre></div>
+<span id="cb48-2"><a href="#cb48-2" aria-hidden="true" tabindex="-1"></a>[<span class="dv">1</span>] <span class="fl">0.06775</span></span></code></pre></div>
 </div>
 <div class="section level3">
 <h3 id="empirical-logistic-splines-for-detected-proportions-5">Empirical logistic splines for detected proportions<a class="anchor" aria-label="anchor" href="#empirical-logistic-splines-for-detected-proportions-5"></a>
@@ -632,7 +632,7 @@ intensities<a class="anchor" aria-label="anchor" href="#detection-probability-cu
 <p>With estimated parameters for the fitted detection probability curve
 for precursor-level data being:</p>
 <div class="sourceCode" id="cb56"><pre class="sourceCode r"><code class="sourceCode r"><span id="cb56-1"><a href="#cb56-1" aria-hidden="true" tabindex="-1"></a><span class="fu">round</span>(res<span class="sc">$</span>prec<span class="sc">$</span>dpcFit<span class="sc">$</span>beta, <span class="dv">2</span>)</span>
-<span id="cb56-2"><a href="#cb56-2" aria-hidden="true" tabindex="-1"></a>[<span class="dv">1</span>] <span class="sc">-</span><span class="fl">12.4</span>   <span class="fl">0.6</span></span></code></pre></div>
+<span id="cb56-2"><a href="#cb56-2" aria-hidden="true" tabindex="-1"></a>[<span class="dv">1</span>] <span class="sc">-</span><span class="fl">12.43</span>   <span class="fl">0.60</span></span></code></pre></div>
 <p>and estimated parameters for the fitted detection probability curve
 for the protein group-level data being:</p>
 <div class="sourceCode" id="cb57"><pre class="sourceCode r"><code class="sourceCode r"><span id="cb57-1"><a href="#cb57-1" aria-hidden="true" tabindex="-1"></a><span class="fu">round</span>(res<span class="sc">$</span>prot<span class="sc">$</span>dpcFit<span class="sc">$</span>beta, <span class="dv">2</span>)</span>

diff --git a/docs/reference/plotEmpSplines.html b/docs/reference/plotEmpSplines.html
@@ -73,6 +73,7 @@ intensities</p>
   lty <span class="op">=</span> <span class="st">"solid"</span>,
   lineCol <span class="op">=</span> <span class="st">"darkgreen"</span>,
   lwd <span class="op">=</span> <span class="fl">2</span>,
+  xlim <span class="op">=</span> <span class="cn">NULL</span>,
   ylim <span class="op">=</span> <span class="fu"><a href="https://rdrr.io/r/base/c.html" class="external-link">c</a></span><span class="op">(</span><span class="fl">0</span>, <span class="fl">1</span><span class="op">)</span>
 <span class="op">)</span></code></pre></div>
     </div>
@@ -104,6 +105,8 @@ axis.</p></dd>
 <dd><p>Line color.</p></dd>
 <dt>lwd</dt>
 <dd><p>Line width.</p></dd>
+<dt>xlim</dt>
+<dd><p>Limits of the x-axis.</p></dd>
 <dt>ylim</dt>
 <dd><p>Limits of the y-axis.</p></dd>
 </dl></div>
